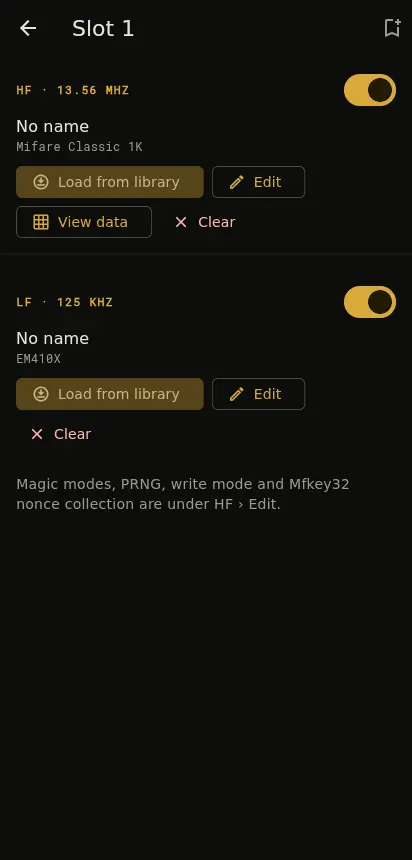
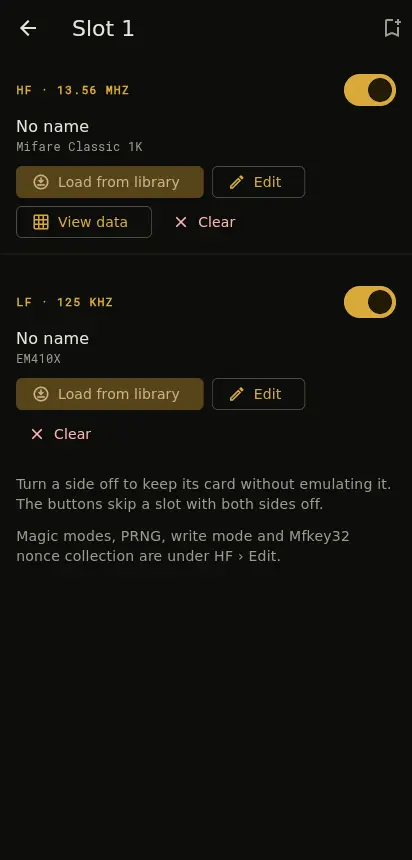
README: new Slot page screenshots
Claude-Session: https://claude.ai/code/session_018tikF3idVBUjHVzaCf51H6

Changed region(s): [[0.0291, 0.5442, 0.932, 0.6651]]

diff --git a/README.md b/README.md
@@ -28,15 +28,18 @@ of rows of icons.
 
 Status at a glance and all 8 slots in one list. The small icon in the corner shows whether the
 Chameleon is emulating a card or reading one; tap it to see what each mode does and switch. Tap a slot
-to load a card from the library, edit it, view its data or switch a side off. Device settings are a
-normal grouped page.
+to load a card from the library, edit it, view its data, or switch a side off to keep its card without
+emulating it. Device settings are a normal grouped page.
 
 <table>
   <tr>
     <td><img src="docs/fork-screenshots/01-device.webp" width="200" alt="Device tab"></td>
     <td><img src="docs/fork-screenshots/02b-device-mode.webp" width="200" alt="Device mode sheet: Emulate or Read"></td>
-    <td><img src="docs/fork-screenshots/02-slot.webp" width="200" alt="Slot page with HF and LF sides"></td>
     <td><img src="docs/fork-screenshots/03-device-settings.webp" width="200" alt="Device settings page"></td>
+  </tr>
+  <tr>
+    <td><img src="docs/fork-screenshots/02-slot.webp" width="200" alt="Slot page with HF and LF cards"></td>
+    <td><img src="docs/fork-screenshots/02c-slot-half.webp" width="200" alt="Slot page with an empty LF side"></td>
   </tr>
 </table>
 
